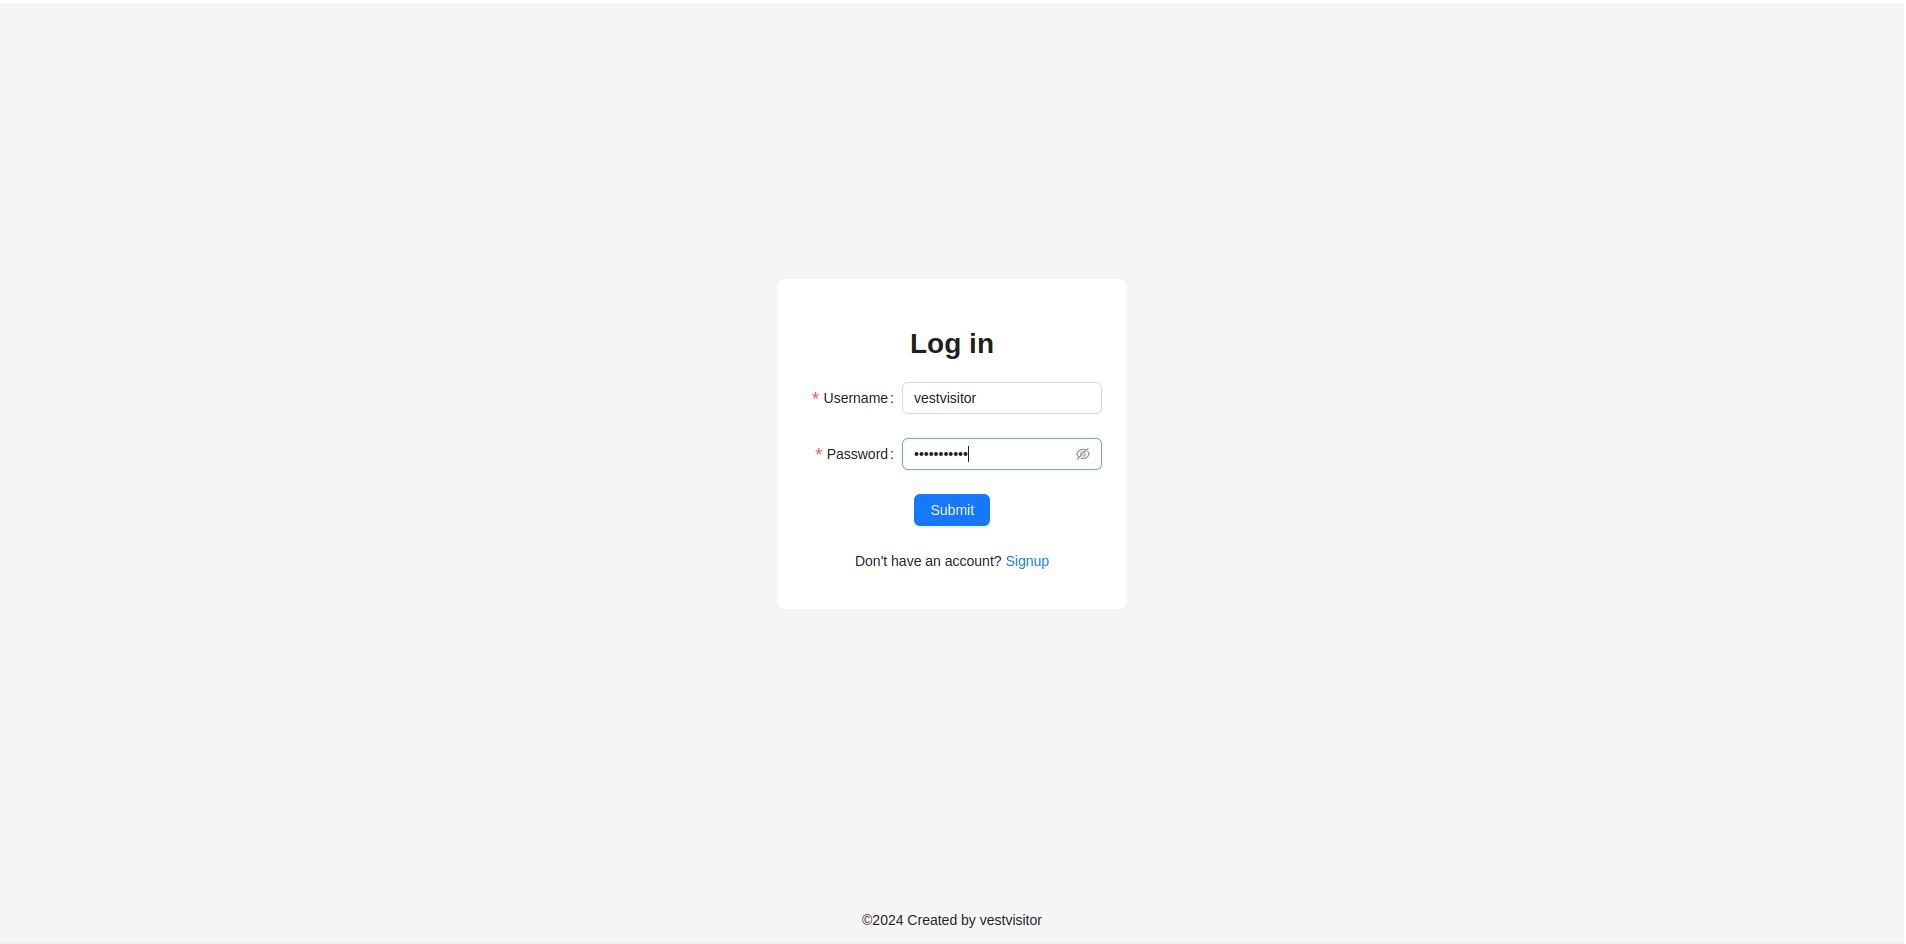
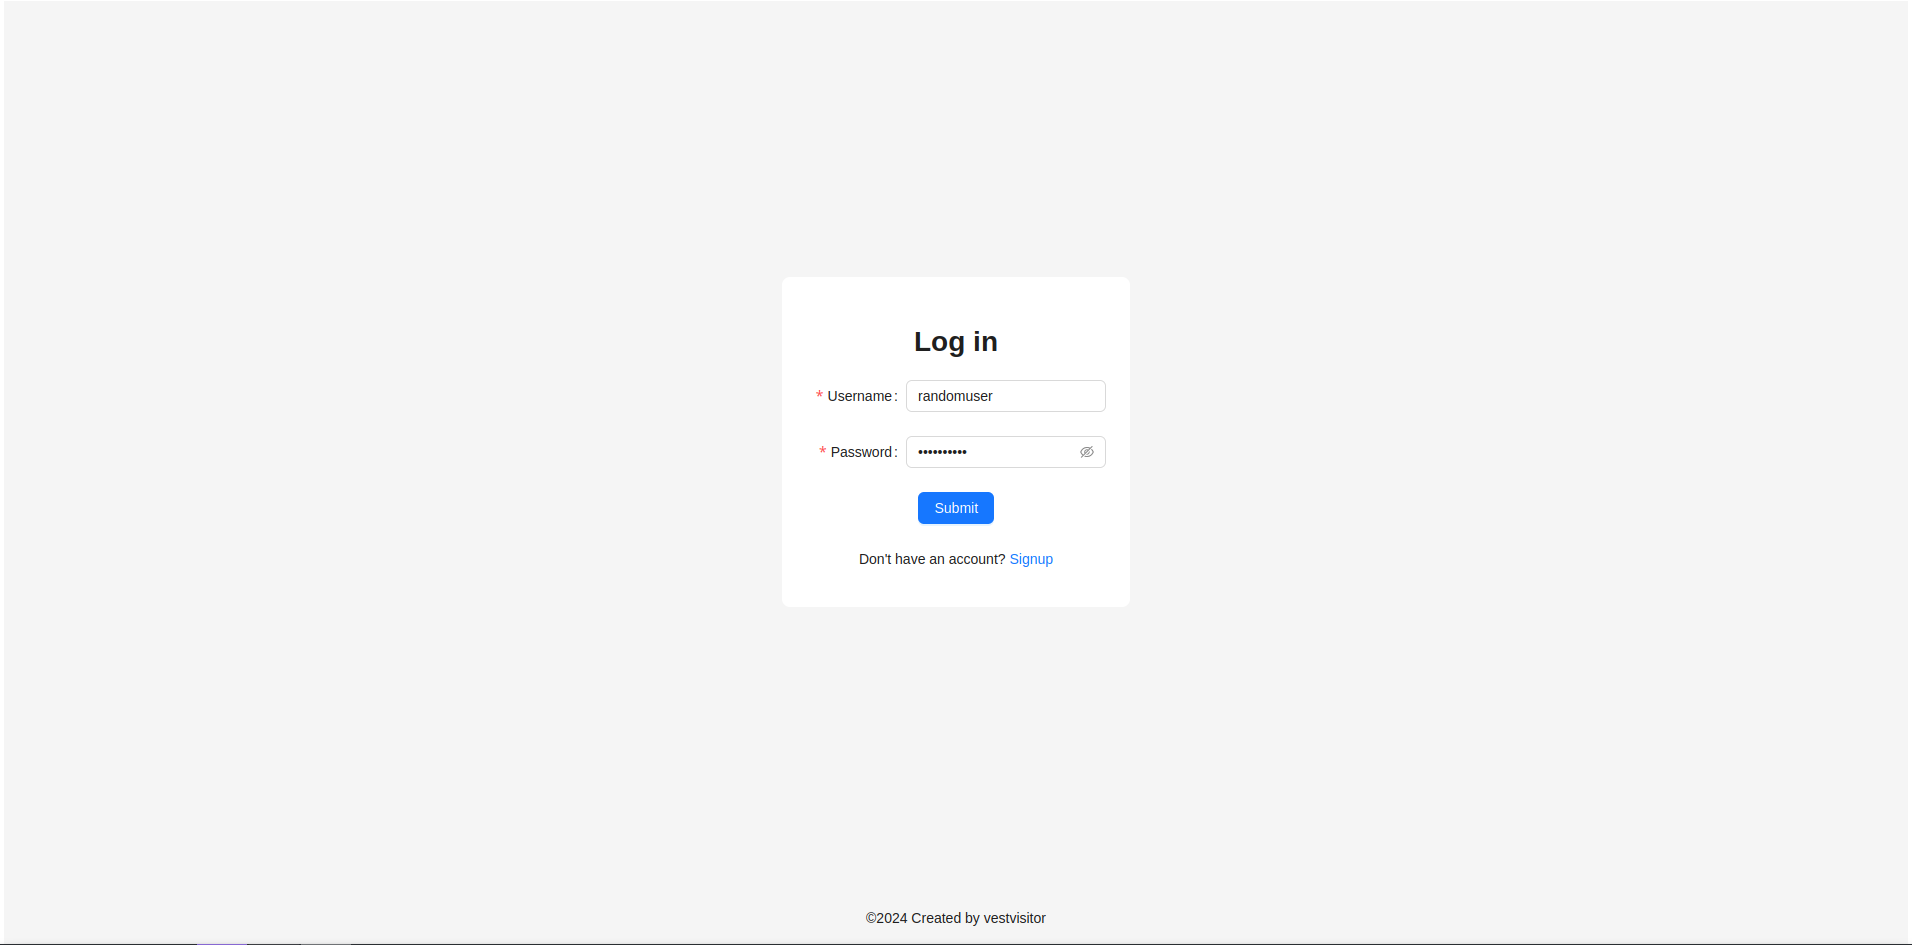
Update README.md

diff --git a/README.md b/README.md
@@ -1,0 +1,34 @@
+# Тайный Санта
+
+Веб-приложение для создания персонального списка желаний ✨
+
+### Технологии
+
+Backend: FastAPI (SQLModel, SQLite, Alembic, GraphQL, Selenium\requests\bs4)
+
+Frontend: React (Tailwind CSS, Ant Design)
+
+## Описание
+
+Когда-то давно я разработал чат-бота для игры в "Тайного Санту" с друзьями (которго, кстати, не так довно [обновил](https://github.com/vestvisitor/SecretSantaBot)), но в процессе его эксплуатации я столкнулися с несколькими проблемами:
+- каждый игрок, персона индивидуальная, и формирует список желаний в таком стиле, в каком он посчитает это нужным (несмотря на наличие шаблона и просьбы следовать ему);
+- из-за этого довольно легко было догадаться кому ты даришь подарок, особенно если вы близкие друзья
+
+Для решения этих проблем, а также с целью получения практики в backend-разработке я решил создать веб-приложения для игры в "Тайного Санту".
+
+На текущий момент в приложении есть примитивная система авторизации, можно создать аккаунт и войти в него:
+![alt Text](/assets/images/signup.png) ![alt Text](/assets/images/login.png)
+
+После авторизации у пользователя есть его личный профиль, где можно посмотреть личные данные:
+![alt Text](/assets/images/profile.png)
+
+Раздел профиля, где можно загадать желание, добавив товары с маркетплейсов (Ozon, Wildberries, Aliexpress) в свой список желаний, путем передачи ссылки на конкретный товар и выставления приоритета:
+![alt Text](/assets/images/make_wish.png)
+
+Раздел профиля для редактирования добавленных ранее желаний в спике желаний пользователя:
+![alt Text](/assets/images/wishlist.png)
+
+Основная страница, где пользователь может видеть глобальный список всех желаний, которые только пользователи добавляли к себе в списки желаний:
+![alt Text](/assets/images/mainpage.png)
+
+Также у пользователя есть возможность добавить с главной страницы любое понравившееся желание к себе в список желаний.
